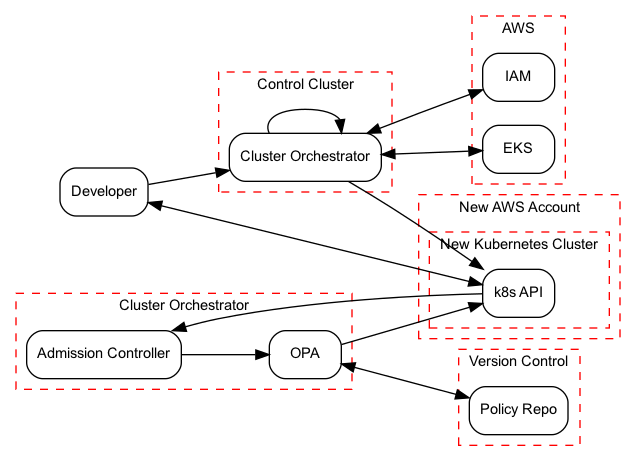
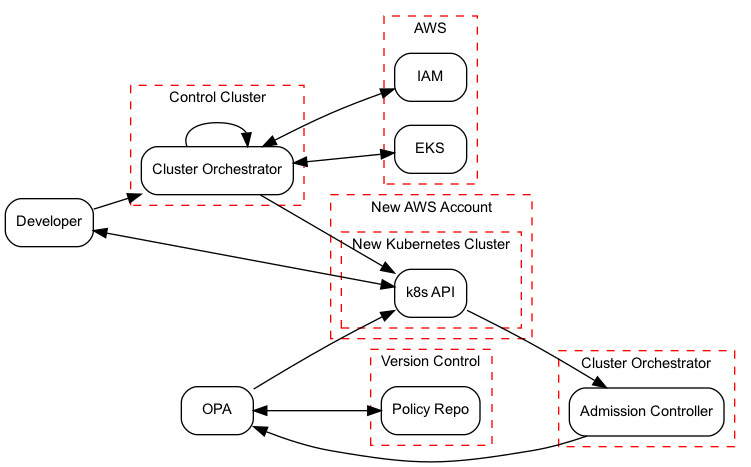
Updated OPA orchestration to show creation using variables

diff --git a/example_OPA_orchestration.py b/example_OPA_orchestration.py
@@ -1,62 +1,64 @@
 from fluentm import Actor, Boundary, Process, DataFlow, TLS, HTTP, Internal, GIT, SSH
 from fluentm import report
 
-Process("Policy Repo").inBoundary(Boundary("Version Control"))
+# Example of a more code-oriented approach, using variables which will play
+# nicely with IDEs. It can be a faster way to write these.
 
-Boundary("New Kubernetes Cluster").inBoundary("New AWS Account")
+# Setup scenes here:
+scenes = {}
 
-scenes = {
-    "Developer requests a new cluster": [
-        DataFlow(
-            Actor("Developer"),
-            Process("Cluster Orchestrator").inBoundary(Boundary("Control Cluster")),
-            TLS(HTTP("Create cluster request")),
-        ),
-        DataFlow(
-            Process("Cluster Orchestrator"),
-            Process("Cluster Orchestrator"),
-            Internal("Validates user"),
-        ),
-        DataFlow(
-            Process("Cluster Orchestrator"),
-            Process("IAM").inBoundary("AWS"),
-            TLS(HTTP("Create new account")),
-            response=TLS(HTTP("Account Details")),
-        ),
-        DataFlow(
-            Process("Cluster Orchestrator"),
-            Process("EKS").inBoundary("AWS"),
-            TLS(HTTP("Create new cluster")),
-            response=TLS(HTTP("Cluster Details")),
-        ),
-        DataFlow(
-            Process("Cluster Orchestrator"),
-            Process("k8s API").inBoundary(Boundary("New Kubernetes Cluster")),
-            TLS(HTTP("Add default admission controller")),
-        ),
-    ],
-    "Developer creates a pod": [
-        DataFlow(Actor("Developer"), Process("k8s API"), TLS(HTTP("Create POD"))),
-        DataFlow(
-            Process("k8s API"),
-            Process("Admission Controller").inBoundary("Cluster Orchestrator"),
-            TLS(HTTP("Validate pod creation")),
-        ),
-        DataFlow(
-            Process("Admission Controller"),
-            Process("OPA").inBoundary("Cluster Orchestrator"),
-            HTTP("Validate pod creation.."),
-        ),
-        DataFlow(
-            Process("OPA"),
-            Process("Policy Repo"),
-            SSH(GIT("Get latest policy")),
-            response=SSH(GIT("Latest policy REGO")),
-        ),
-        DataFlow(Process("OPA"), Process("k8s API"), TLS(HTTP("Validation Decision"))),
-        DataFlow(Process("k8s API"), Actor("Developer"), TLS(HTTP("Approve/Denied"))),
-    ],
-}
+newK8sClusterBoundary = Boundary("New Kubernetes Cluster").inBoundary("New AWS Account")
+
+## Developer requests a new cluster
+# Participants
+developer = Actor("Developer")
+clusterOrchestrator = Process("Cluster Orchestrator").inBoundary(
+    Boundary("Control Cluster")
+)
+iam = Process("IAM").inBoundary("AWS")
+eks = Process("EKS").inBoundary("AWS")
+k8sApi = Process("k8s API").inBoundary(Boundary("New Kubernetes Cluster"))
+# Flows
+scenes["Developer requests a new cluster"] = [
+    DataFlow(developer, clusterOrchestrator, TLS(HTTP("Create cluster request"))),
+    DataFlow(clusterOrchestrator, clusterOrchestrator, Internal("Validates user")),
+    DataFlow(
+        clusterOrchestrator,
+        iam,
+        TLS(HTTP("Create new account")),
+        response=TLS(HTTP("Account Details")),
+    ),
+    DataFlow(
+        clusterOrchestrator,
+        eks,
+        TLS(HTTP("Create new cluster")),
+        response=TLS(HTTP("Cluster Details")),
+    ),
+    DataFlow(
+        clusterOrchestrator, k8sApi, TLS(HTTP("Add default admission controller"))
+    ),
+]
+
+## Developer creates a pod
+# New participants (not seen above)
+developer = Actor("Developer")
+admissionController = Process("Admission Controller").inBoundary("Cluster Orchestrator")
+policyRepo = Process("Policy Repo").inBoundary(Boundary("Version Control"))
+opa = Process("OPA")
+# DataFlows
+scenes["Developer creates a pod"] = [
+    DataFlow(developer, k8sApi, TLS(HTTP("Create POD"))),
+    DataFlow(k8sApi, admissionController, TLS(HTTP("Validate pod creation"))),
+    DataFlow(admissionController, opa, TLS(HTTP("Validate pod creation"))),
+    DataFlow(
+        opa,
+        policyRepo,
+        SSH(GIT("Get latest policy")),
+        response=SSH(GIT("Latest policy REGO")),
+    ),
+    DataFlow(opa, k8sApi, TLS(HTTP("Validation Decision"))),
+    DataFlow(k8sApi, developer, TLS(HTTP("Approve/Denied"))),
+]
 
 if __name__ == "__main__":
     r = report(scenes, outputDir="examples/OPA_orchestration", dfdLabels=True)
